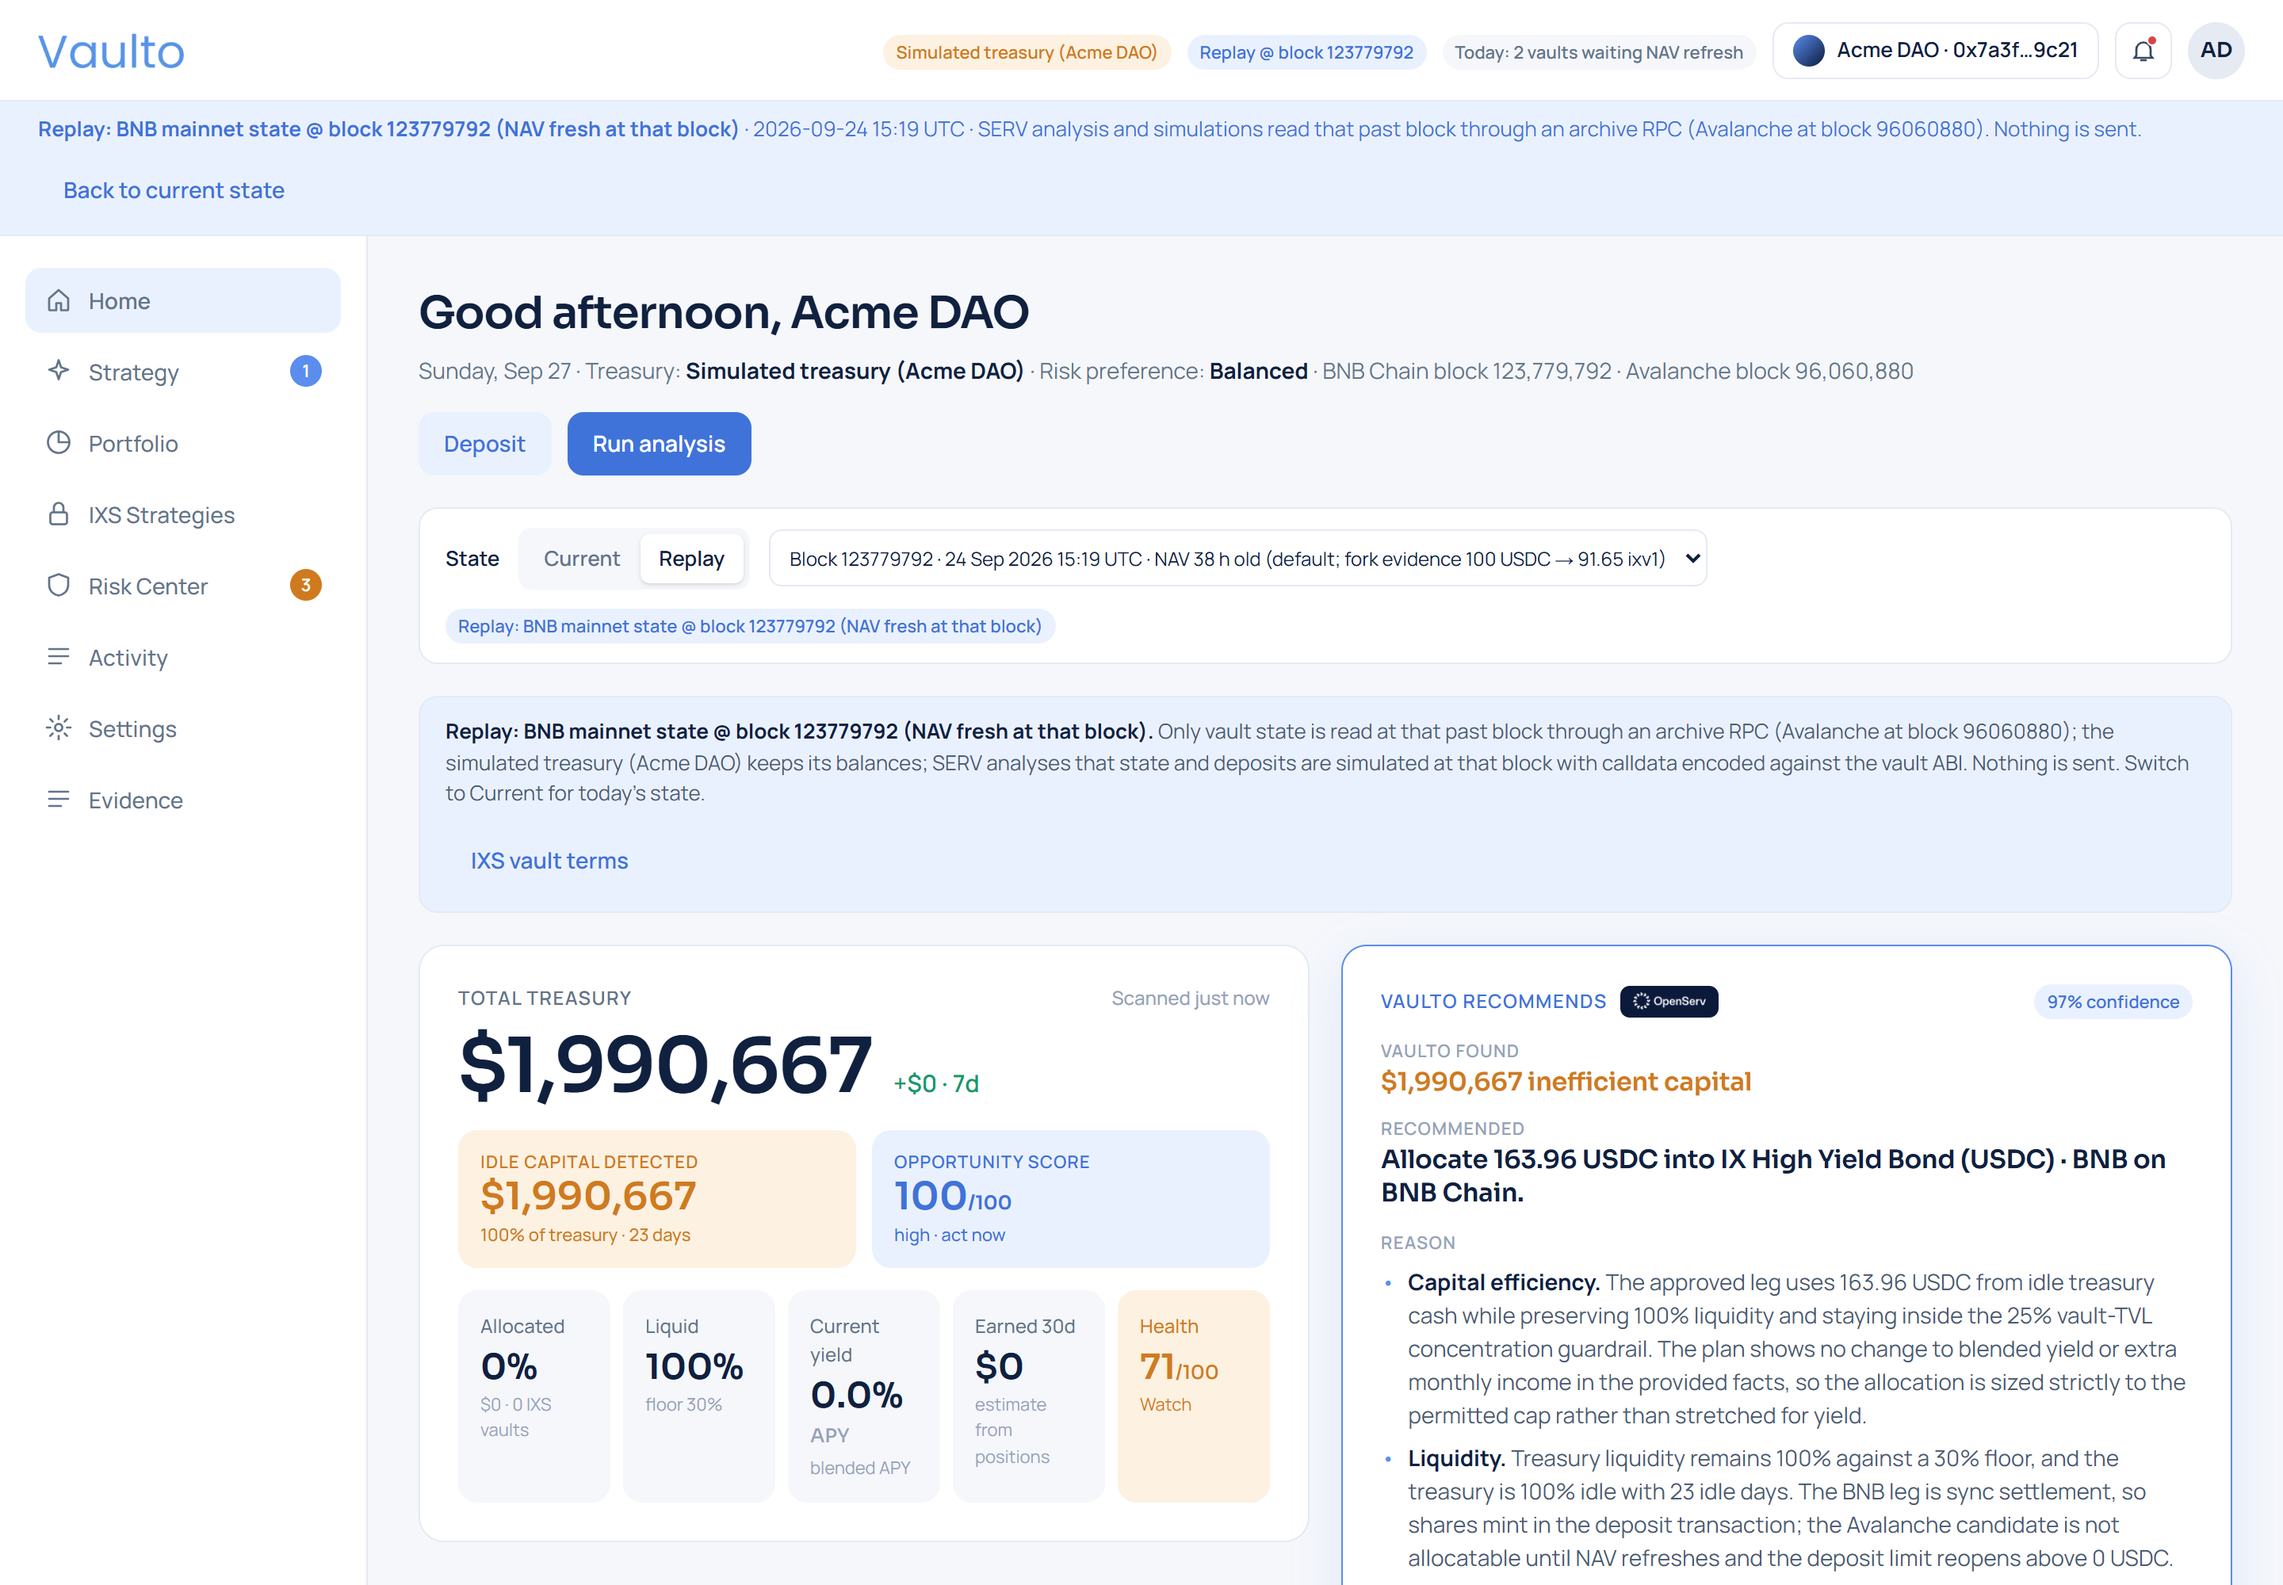
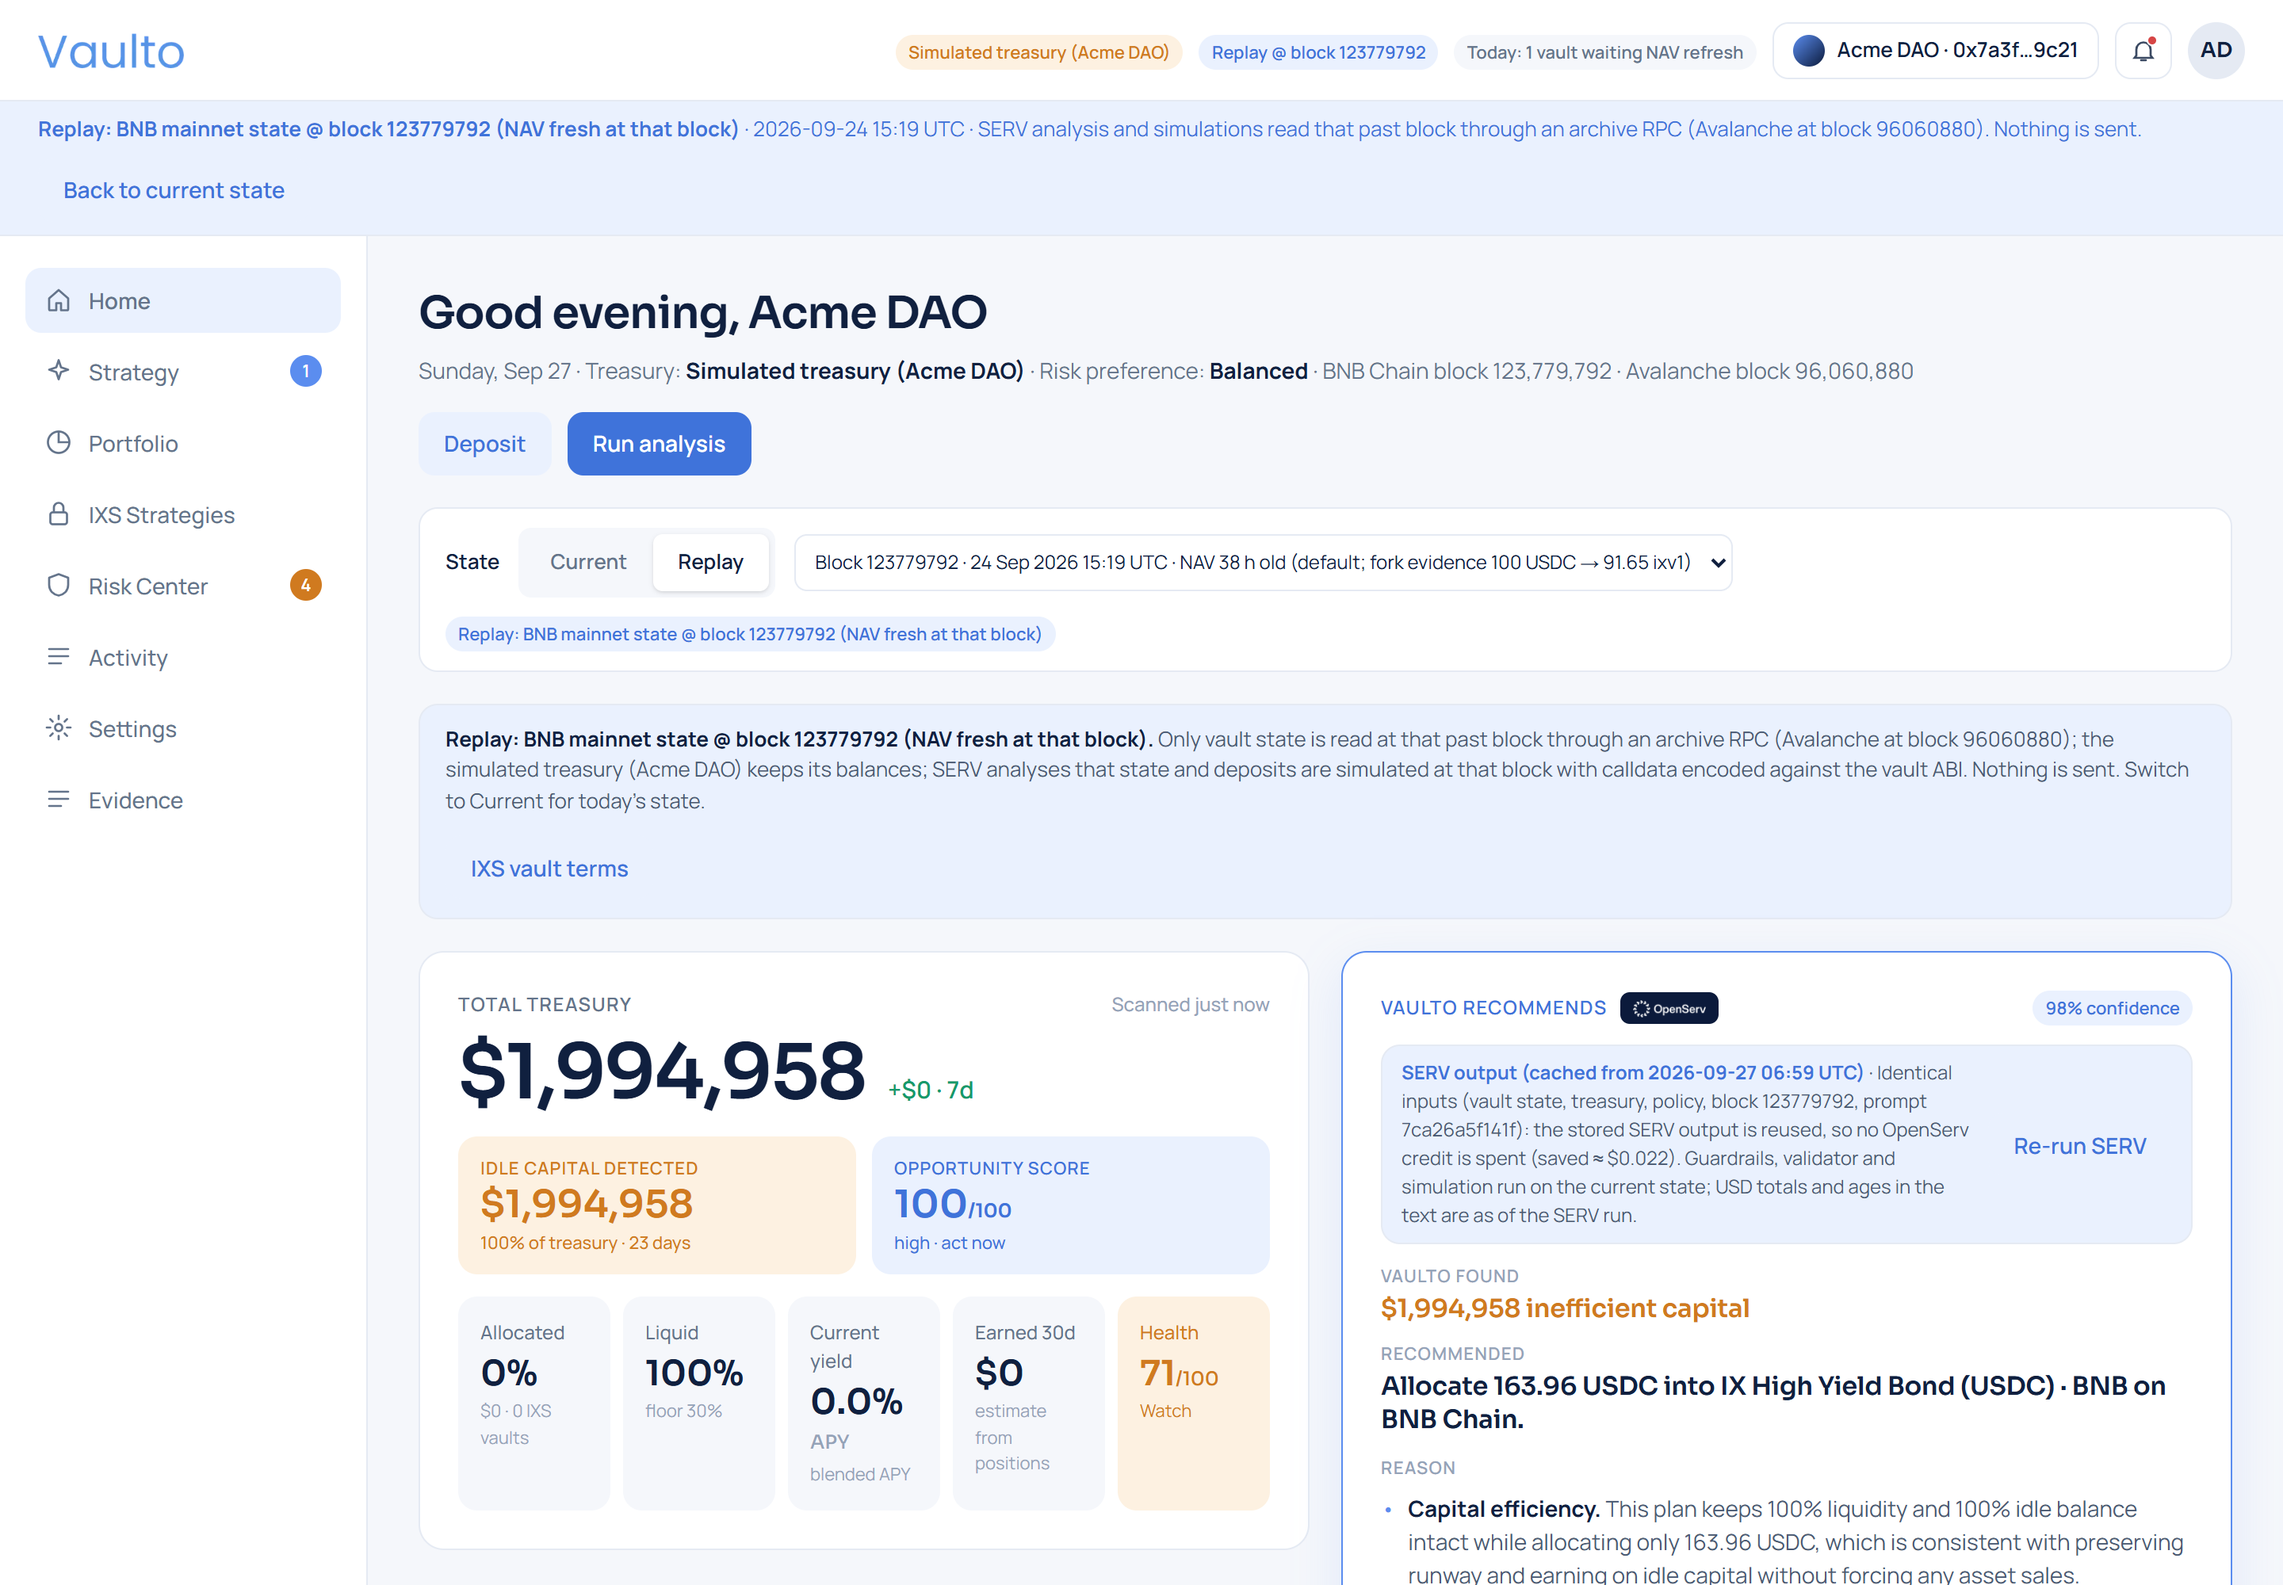
Labels: a simulated execution reads 'Simulated · nothing sent' / 'Simulated allocation' (never 'Executed'); Replay calldata is 'encoded against the vault ABI', not 'via IXS MCP'; screenshots 03-06 in-app with the cached SERV label

diff --git a/src/components/dashboard/recommendation-card.tsx b/src/components/dashboard/recommendation-card.tsx
@@ -49,6 +49,8 @@ export function RecommendationCard({ rec, snapshot }: { rec: Recommendation | nu
   const txn = useTxn();
   const proposed = rec && rec.status === "proposed";
   const executed = rec && rec.status === "executed";
+  // A simulated run is never "executed": only legs on a Live (opt-in) chain are sent on-chain.
+  const simulatedRun = Boolean(executed && !(rec.legs.length > 0 && rec.legs.every((l) => snapshot.liveChainIds.includes(l.chainId))));
 
   if (analyze.isPending) {
     return (
@@ -96,7 +98,7 @@ export function RecommendationCard({ rec, snapshot }: { rec: Recommendation | nu
     <div className={cx("flex flex-col p-6", proposed ? "card-accent" : "card")}>
       <div className="flex flex-wrap items-center justify-between gap-2">
         <div className="flex items-center gap-2">
-          <span className="whitespace-nowrap text-[12px] font-semibold uppercase tracking-[0.06em] text-blue-deep">{executed ? "Executed" : rec.status === "approved" ? "Approved · awaiting execution" : "Vaulto recommends"}</span>
+          <span className="whitespace-nowrap text-[12px] font-semibold uppercase tracking-[0.06em] text-blue-deep">{executed ? (simulatedRun ? "Simulated · nothing sent" : "Executed") : rec.status === "approved" ? "Approved · awaiting execution" : "Vaulto recommends"}</span>
           <OpenServBadge />
         </div>
         <div className="flex items-center gap-2">
@@ -111,7 +113,7 @@ export function RecommendationCard({ rec, snapshot }: { rec: Recommendation | nu
           <div className="mt-0.5 font-display text-[16px] font-semibold leading-[1.3] tracking-[-0.01em] text-amber">{rec.foundLabel}</div>
         </div>
         <div>
-          <div className="text-[11px] font-semibold uppercase tracking-[0.06em] text-faint">{executed ? "Allocated" : "Recommended"}</div>
+          <div className="text-[11px] font-semibold uppercase tracking-[0.06em] text-faint">{executed ? (simulatedRun ? "Simulated allocation" : "Allocated") : "Recommended"}</div>
           <div className="mt-0.5 font-display text-[16px] font-semibold leading-[1.3] tracking-[-0.01em] text-ink">{rec.headline}</div>
         </div>
       </div>

diff --git a/src/app/app/strategy/page.tsx b/src/app/app/strategy/page.tsx
@@ -94,7 +94,7 @@ export default function StrategyPage() {
           <div className="mt-1 font-display text-[28px] font-semibold tracking-[-0.02em] text-ink">{rec.title}</div>
         </div>
         <div className="flex items-center gap-2">
-          {rec.status !== "proposed" && <Pill tone={rec.status === "executed" ? "green" : rec.status === "approved" ? "blue" : "muted"} className="h-7 px-3 text-[13px] capitalize">{rec.status}</Pill>}
+          {rec.status !== "proposed" && <Pill tone={rec.status === "executed" ? "green" : rec.status === "approved" ? "blue" : "muted"} className="h-7 px-3 text-[13px] capitalize">{rec.status === "executed" && !live ? "simulated" : rec.status}</Pill>}
           <Pill tone="blue" className="h-7 px-3 text-[13px]">{rec.confidence}% confidence</Pill>
         </div>
       </div>
@@ -297,7 +297,7 @@ export default function StrategyPage() {
                       </button>
                     </div>
                     <div className="mt-3 text-center text-[12px] leading-[1.5] text-faint">
-                      {rec.txCount} calldata step{rec.txCount > 1 ? "s" : ""} via IXS MCP · {live ? `wallet signature required · approve exact amount · hard cap ${(rec.guardrails?.maxLiveTxUsdc ?? 0).toLocaleString("en-US")} USDC per tx · est. fee ${fmtUsd(rec.feeUsd, { decimals: 2 })}` : `${execLabel} · nothing is sent`}
+                      {rec.txCount} calldata step{rec.txCount > 1 ? "s" : ""} {snapshot.replay ? "encoded against the vault ABI (Replay)" : "via IXS MCP"} · {live ? `wallet signature required · approve exact amount · hard cap ${(rec.guardrails?.maxLiveTxUsdc ?? 0).toLocaleString("en-US")} USDC per tx · est. fee ${fmtUsd(rec.feeUsd, { decimals: 2 })}` : `${execLabel} · nothing is sent`}
                     </div>
                   </>
                 )}

diff --git a/src/components/txn/txn-modal.tsx b/src/components/txn/txn-modal.tsx
@@ -68,7 +68,7 @@ export function TxnModal({ prepared, loading, error, steps, executing, isDemo, c
           <div>
             <div className="eyebrow">{loading ? "Preparing" : live ? "Review transaction" : "Review simulation"}</div>
             <div className="mt-1.5 font-display text-[24px] font-semibold leading-tight tracking-[-0.02em] text-ink">
-              {loading ? "Building calldata via IXS MCP…" : prepared ? (live ? "Allocate idle capital to the IXS vault" : "Simulate the allocation against the IXS vault") : "Transaction"}
+              {loading ? "Building and simulating the calldata…" : prepared ? (live ? "Allocate idle capital to the IXS vault" : "Simulate the allocation against the IXS vault") : "Transaction"}
             </div>
           </div>
           <button onClick={onClose} disabled={executing} className="flex h-9 w-9 shrink-0 items-center justify-center rounded-[10px] bg-canvas text-[18px] text-muted hover:text-ink disabled:opacity-40" aria-label="Close">
